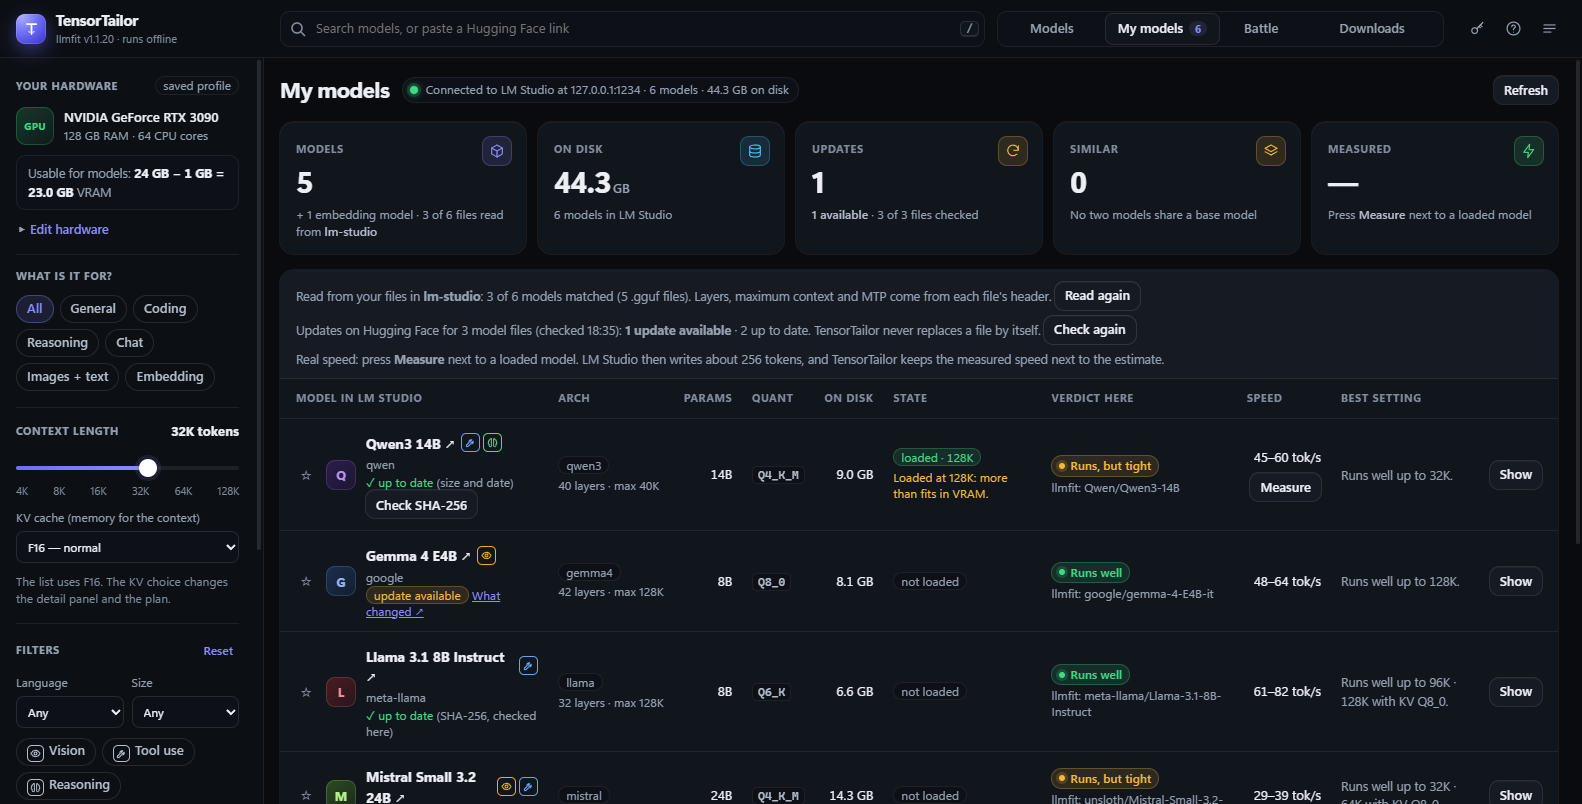
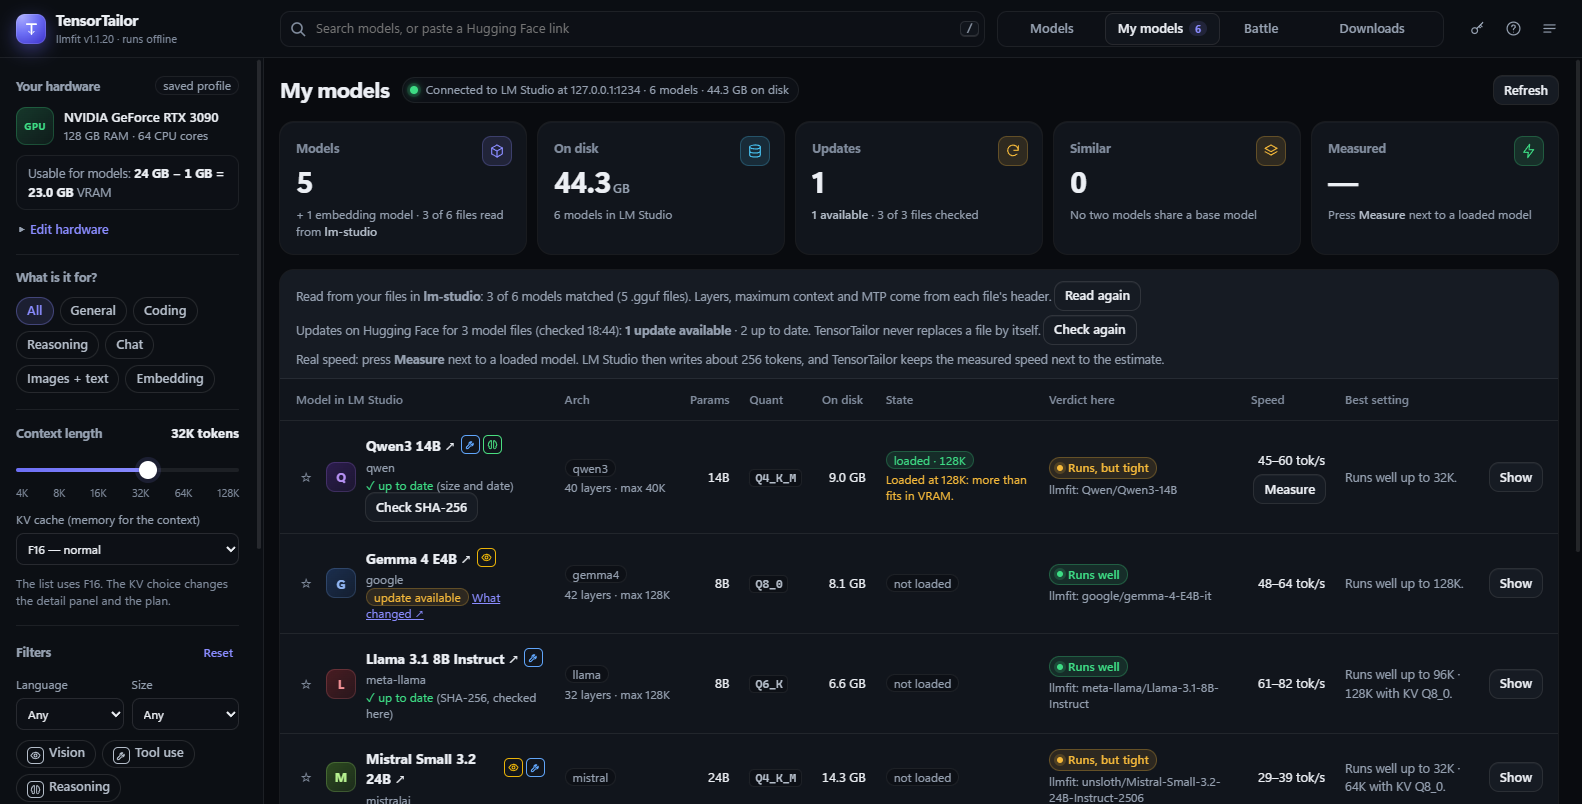
Implemented by Claude Opus 5.5: style(web): calmer page: no ALL-CAPS labels, one answer at the top, fewer dots
GUI review G7, G9, G11:
- G7: the small uppercase labels (sidebar headings, table and list headers, stat and KPI
  labels, Top picks, Battle places, menu groups, command labels) are normal case now,
  12-12.5 px and a little bolder; the 11 uppercase rules were changed in place.
- G9: the Overview's quiet line says only how it runs (GPU, estimated or measured);
  llmfit's own level (Perfect, Good, Marginal) is the first line of "Why this result",
  so the verdict at the top is the one answer.
- G11: the detail header keeps two key facts (parameters, maximum context); license
  (gated or not), release date and downloads moved to the top of the Overview tab.
New test test-calm (24 tests), Help updated, README pictures retaken.

diff --git a/web/app.html b/web/app.html
@@ -233,7 +233,7 @@ input[type="range"] { width: 100%; accent-color: var(--accent); }
 .sug .m { display: flex; align-items: center; gap: 6px; flex-wrap: wrap; }
 .suggest[hidden] { display: none; }
 .sug { border-radius: var(--radius); border: 1px solid var(--line); background: var(--panel); box-shadow: var(--shadow); display: flex; flex-direction: column; min-width: 0; }
-.sug .k { text-transform: uppercase; font-weight: 700; }
+.sug .k { font-weight: 650; }
 .sug .n { font-weight: 650; white-space: nowrap; overflow: hidden; text-overflow: ellipsis; }
 .sug .m { font-size: 12.5px; color: var(--muted); }
 .sug .acts { display: flex; gap: 6px; margin-top: 6px; }
@@ -250,7 +250,7 @@ input[type="range"] { width: 100%; accent-color: var(--accent); }
 .sort { display: flex; align-items: center; font-size: 13px; }
 .table { flex: 1; min-height: 0; display: flex; flex-direction: column; background: var(--panel); border: 1px solid var(--line); border-radius: var(--radius); box-shadow: var(--shadow); overflow: hidden; }
 .cols, .row { display: grid; align-items: center; }
-.cols { text-transform: uppercase; color: var(--faint); }
+.cols { color: var(--faint); }
 .rows { overflow: auto; flex: 1; position: relative; }
 .row { height: 60px; cursor: pointer; overflow: hidden; }
 
@@ -354,7 +354,7 @@ input[type="range"] { width: 100%; accent-color: var(--accent); }
 .tabs button[aria-selected="true"] { color: var(--text); }
 .stats { display: grid; }
 .stat { min-width: 0; }
-.stat .k { color: var(--faint); text-transform: uppercase; }
+.stat .k { color: var(--faint); }
 .stat .v { font-size: 16px; font-weight: 700; font-variant-numeric: tabular-nums; white-space: nowrap; overflow: hidden; text-overflow: ellipsis; }
 .stat .v small { font-size: 11px; font-weight: 400; }
 .verdict-big { display: flex; align-items: center; flex-wrap: wrap; }
@@ -368,7 +368,7 @@ input[type="range"] { width: 100%; accent-color: var(--accent); }
 .typing { margin-top: 10px; min-height: 92px; padding: 10px 12px; border-radius: 9px; border: 1px solid var(--line); background: var(--panel-2); font-size: 13px; line-height: 1.55; white-space: pre-wrap; }
 .typing .cur { display: inline-block; width: 7px; height: 14px; background: var(--accent); vertical-align: -2px; margin-left: 1px; }
 .ladder, .ftable, .mtable, .ptable { width: 100%; border-collapse: collapse; font-size: 13px; font-variant-numeric: tabular-nums; }
-.ladder th, .ftable th, .mtable th, .ptable th { text-align: left; font-size: 11px; color: var(--faint); font-weight: 600; text-transform: uppercase; letter-spacing: .04em; padding: 0 6px 6px; }
+.ladder th, .ftable th, .mtable th, .ptable th { text-align: left; color: var(--faint); padding: 0 6px 6px; }
 .ladder td, .ftable td, .mtable td, .ptable td { padding: 6px; border-top: 1px solid var(--line); vertical-align: middle; }
 
 .notes { margin: 0; font-size: 13px; display: grid; }
@@ -439,7 +439,6 @@ pre.snippet { margin: 0; padding: 10px; border-radius: 9px; background: var(--pa
 /* A verdict tile that is switched off stays readable: dashed and quiet, with "hidden". */
 .tile[aria-pressed="false"] { opacity: 1; background: transparent; border-style: dashed; }
 
-.tile .off { font-size: 11px; color: var(--muted); font-weight: 600; text-transform: uppercase; letter-spacing: .04em; }
 /* A clear focus ring on the search box and the number fields (keyboard use). */
 .search:focus-within, .unit-input:focus-within { outline-offset: 2px; }
 /* "Load in LM Studio" at the top of the Run card. */
@@ -559,9 +558,9 @@ select, .unit-input, .dlg-body input[type="password"], .dlg-body textarea { bord
 .search:focus-within, .unit-input:focus-within { outline: 0; box-shadow: inset 0 0 0 1px var(--accent), 0 0 0 4px var(--accent-soft); background: var(--sunken); }
 kbd { border: 0; box-shadow: inset 0 0 0 1px var(--line-2), 0 1px 0 var(--line-2); background: var(--panel); }
 /* Tables: quiet uppercase headers and hairlines. */
-.ladder th, .ftable th, .mtable th, .ptable th, .cmp-table th { font-size: 10.5px; font-weight: 700; letter-spacing: .08em; color: var(--faint); }
+.ladder th, .ftable th, .mtable th, .ptable th, .cmp-table th { font-size: 12px; font-weight: 600; color: var(--faint); }
 .ladder td, .ftable td, .mtable td, .ptable td { border-top-color: var(--line); }
-.cols { font-size: 10.5px; font-weight: 700; letter-spacing: .08em; background: transparent; }
+.cols { font-size: 12px; font-weight: 600; background: transparent; }
 .ladder tr.pick td, .ftable tr.pick td { background: var(--accent-soft); }
 .ladder tr.pick td:first-child, .ftable tr.pick td:first-child { box-shadow: inset 2px 0 0 var(--accent); }
 /* Boxes: tinted with a ring. */
@@ -614,7 +613,7 @@ header.top { position: relative; z-index: 6; height: 58px; padding: 0 16px; grid
 .side > .card { background: transparent; box-shadow: none; border-radius: 0; padding: 14px 0 16px; border-bottom: 1px solid var(--line); }
 .side > .card:last-child { border-bottom: 0; }
 .side .card-head { margin-bottom: 12px; }
-.side .card-head h2, .side .fold-head h2 { font: 700 10.5px var(--font); letter-spacing: .08em; text-transform: uppercase; color: var(--muted); }
+.side .card-head h2, .side .fold-head h2 { font: 650 12.5px var(--font); color: var(--muted); }
 .side .ctx-value { font-family: var(--display); font-weight: 700; font-size: 13px; color: var(--text); }
 .side .btn.ghost.small { height: 24px; padding: 0 6px; color: var(--accent); font-size: 12px; }
 .hw-gpu { background: transparent; box-shadow: none; padding: 0; }
@@ -649,7 +648,7 @@ input[type="range"]:focus-visible::-webkit-slider-thumb { box-shadow: 0 0 0 4px 
 .center { gap: 10px; }
 /* Top picks: a slim strip of three pills (closed) or three cards (open). */
 .suggest.strip { display: flex; align-items: center; gap: 8px; margin: 0; min-width: 0; }
-.pk-lbl { display: inline-flex; align-items: center; gap: 6px; font: 700 10.5px var(--font); letter-spacing: .08em; text-transform: uppercase; color: var(--accent); white-space: nowrap; margin-right: 2px; }
+.pk-lbl { display: inline-flex; align-items: center; gap: 6px; font: 650 12px var(--font); color: var(--accent); white-space: nowrap; margin-right: 2px; }
 .pk-lbl svg.ic, .sort svg.ic { width: 14px; height: 14px; fill: none; stroke: currentColor; stroke-width: 1.7; stroke-linecap: round; stroke-linejoin: round; }
 .pk { display: inline-flex; align-items: center; gap: 7px; height: 30px; padding: 0 12px 0 10px; border: 0; border-radius: 99px; background: var(--panel); box-shadow: var(--elev); font-size: 12px; min-width: 0; flex: 0 1 auto; color: var(--text); transition: box-shadow .15s; }
 .pk:hover { box-shadow: 0 0 0 1px var(--accent-ring); }
@@ -660,7 +659,7 @@ input[type="range"]:focus-visible::-webkit-slider-thumb { box-shadow: 0 0 0 4px 
 .suggest:not(.strip) { margin-bottom: 0; }
 .sug { padding: 14px 16px; gap: 8px; }
 .sug .who { display: flex; align-items: center; gap: 10px; min-width: 0; }
-.sug .k { color: var(--faint); font-size: 10.5px; letter-spacing: .08em; }
+.sug .k { color: var(--faint); font-size: 12px; }
 /* One toolbar: verdict segments at the left, sort and icon buttons at the right. */
 .list-head { margin: 0; }
 .tiles { display: inline-flex; grid-template-columns: none; gap: 2px; padding: 3px; margin: 0; border-radius: 10px; background: var(--sunken); box-shadow: inset 0 0 0 1px var(--line); }
@@ -764,7 +763,7 @@ input[type="range"]:focus-visible::-webkit-slider-thumb { box-shadow: 0 0 0 4px 
 .stats { gap: 0; border-radius: 12px; background: var(--sunken); box-shadow: inset 0 0 0 1px var(--line); }
 .stat { background: transparent; box-shadow: none; border-radius: 0; padding: 11px 13px; }
 .stat + .stat { border-left: 1px solid var(--line); }
-.stat .k { font-size: 10.5px; font-weight: 700; letter-spacing: .08em; }
+.stat .k { font-size: 12px; font-weight: 600; }
 .stat .v { font: 700 19px/1.2 var(--display); letter-spacing: -.02em; margin-top: 3px; }
 .stat .v small { font: 500 11.5px var(--font); color: var(--muted); letter-spacing: 0; }
 .math { font: 13px var(--font); background: transparent; box-shadow: none; padding: 12px 0 0; color: var(--muted); }
@@ -779,7 +778,7 @@ input[type="range"]:focus-visible::-webkit-slider-thumb { box-shadow: 0 0 0 4px 
 .lmrow { border-top-color: var(--line); padding: 10px 0; }
 .lmhead b { font-weight: 650; }
 .lmload.top { background: var(--accent-soft); box-shadow: inset 0 0 0 1px var(--accent-ring); border-radius: 12px; }
-.cmd .who { font-size: 10.5px; font-weight: 700; letter-spacing: .08em; text-transform: uppercase; }
+.cmd .who { font-size: 12px; font-weight: 650; }
 .ftable .fname { font-size: 12px; }
 .detail .card-head h2 { font-size: 14.5px; }
 /* The sticky header sits right at the top edge (no gap above it while you scroll). */
@@ -798,7 +797,7 @@ input[type="range"]:focus-visible::-webkit-slider-thumb { box-shadow: 0 0 0 4px 
 .view-head .status-line .dot.ok { box-shadow: 0 0 0 3px var(--perfect-soft), 0 0 8px var(--perfect); }
 .kpis { display: grid; grid-template-columns: repeat(5, minmax(0, 1fr)); gap: 12px; }
 .kpi { position: relative; overflow: hidden; padding: 16px 16px 14px; }
-.kpi-l { font: 700 10.5px var(--font); letter-spacing: .08em; text-transform: uppercase; color: var(--faint); }
+.kpi-l { font: 650 12.5px var(--font); color: var(--faint); }
 .kpi-ic { position: absolute; right: 14px; top: 14px; width: 30px; height: 30px; border-radius: 9px; display: grid; place-items: center; color: var(--c); background: color-mix(in srgb, var(--c) 13%, transparent); box-shadow: inset 0 0 0 1px color-mix(in srgb, var(--c) 26%, transparent); }
 .kpi-ic svg { width: 16px; height: 16px; fill: none; stroke: currentColor; stroke-width: 1.7; stroke-linecap: round; stroke-linejoin: round; }
 .kpi b { display: block; margin-top: 8px; font: 700 30px/1 var(--display); letter-spacing: -.03em; }
@@ -850,7 +849,7 @@ input[type="range"]:focus-visible::-webkit-slider-thumb { box-shadow: 0 0 0 4px 
 .fighter { padding: 20px; }
 .fighter.win { box-shadow: 0 0 0 1px color-mix(in srgb, var(--perfect) 45%, transparent), 0 18px 50px color-mix(in srgb, var(--perfect) 14%, transparent); padding-top: 28px; }
 .crown { top: -11px; left: 50%; right: auto; transform: translateX(-50%); height: 22px; padding: 0 10px; display: inline-flex; align-items: center; font-size: 10.5px; font-weight: 800; letter-spacing: .1em; color: #04130a; background: linear-gradient(180deg, #6ef0a6, var(--perfect)); box-shadow: 0 4px 14px color-mix(in srgb, var(--perfect) 40%, transparent); }
-.place { font: 700 10.5px var(--font); letter-spacing: .1em; text-transform: uppercase; color: var(--faint); }
+.place { font: 650 12px var(--font); color: var(--faint); }
 .fhead { display: flex; align-items: center; gap: 12px; margin-top: 8px; }
 .fname-b { min-width: 0; }
 .fhead h3 { margin: 0; font: 650 16px var(--display); white-space: nowrap; overflow: hidden; text-overflow: ellipsis; }
@@ -884,7 +883,7 @@ input[type="range"]:focus-visible::-webkit-slider-thumb { box-shadow: 0 0 0 4px 
 .menu .btn { height: 38px; font-weight: 500; color: var(--text-2); gap: 10px; }
 .menu .btn:hover { color: var(--text); }
 .menu .btn svg.ic { width: 16px; height: 16px; color: var(--faint); }
-.menu-lbl { padding: 8px 10px 4px; font: 700 10.5px var(--font); letter-spacing: .08em; text-transform: uppercase; color: var(--faint); }
+.menu-lbl { padding: 8px 10px 4px; font: 650 12px var(--font); color: var(--faint); }
 .menu-sep { height: 1px; background: var(--line); margin: 6px 4px; }
 .mi-r { margin-left: auto; font-size: 11px; color: var(--faint); font-weight: 400; }
 /* Help: a table of contents with a search box at the left. */
@@ -950,7 +949,7 @@ details.by-hand .hint { margin-top: 6px; }
 .tile .n, .tile .l { white-space: nowrap; }
 .tile, .tile[aria-pressed="false"] { padding: 0 9px; gap: 6px; }
 .tile[aria-pressed="false"] .l { text-decoration: none; color: var(--faint); }
-.tile .off { display: inline; font-size: 12px; font-weight: 500; text-transform: none; letter-spacing: 0; color: var(--faint); }
+.tile .off { display: inline; font-size: 12px; font-weight: 500; color: var(--faint); }
 .list-head { flex-wrap: wrap; row-gap: 8px; }
 .list-tools { margin-left: auto; }
 .list-tools select { max-width: 150px; }
@@ -967,12 +966,14 @@ details.by-hand .hint { margin-top: 6px; }
 }
 /* The detail panel is a container too: when it is narrow, the labels above its numbers may wrap instead of "CONTE…". */
 .detail { container: detail / inline-size; }
-@container detail (max-width: 440px) { .stat .k { white-space: normal; overflow: visible; letter-spacing: .03em; } }
+@container detail (max-width: 440px) { .stat .k { white-space: normal; overflow: visible; } }
 /* My models: a name breaks between words only; a narrow view leaves out the Arch column (MTP also shows under
    State); the table scrolls sideways instead of cutting off Show. */
 .view-pane { container: view / inline-size; }
 .mtable .d-id { overflow-wrap: normal; word-break: normal; }
 .mine-card { overflow-x: auto; }
+/* Overview: license, release date and downloads (moved out of the detail header). */
+.ov-about { font-size: 12.5px; color: var(--muted); margin: -2px 0 10px; }
 /* Numbered steps in an empty state (My models without LM Studio). */
 .es-steps { text-align: left; margin: 0 auto 18px; padding-left: 22px; max-width: 400px; font-size: 13.5px; line-height: 1.8; color: var(--text-2); }
 /* The Measure button on its own line under the speed (it touched "32–43 tok/s"). */
@@ -1283,9 +1284,9 @@ details.by-hand .hint { margin-top: 6px; }
 
     <h3>The detail panel (right)</h3>
     <dl>
-      <dt>Top of the panel</dt><dd>The answer first: the verdict, the best file for this PC, the file you have in LM Studio (if any), and one action: <b>Load in LM Studio…</b> or <b>Choose a file to download</b>. The star button (☆) at the right stars the model as a favorite. Below the name: the labels, and one line with the facts (parameters, maximum context, license with "(gated)" or "(not gated)", release date, downloads). This part stays in view while you scroll; it shrinks to the name, the answer and the tabs.</dd>
+      <dt>Top of the panel</dt><dd>The answer first: the verdict, the best file for this PC, the file you have in LM Studio (if any), and one action: <b>Load in LM Studio…</b> or <b>Choose a file to download</b>. The star button (☆) at the right stars the model as a favorite. Below the name: the labels, and the two key facts (parameters and maximum context). The license (with "(gated)" or "(not gated)"), release date and downloads are at the top of the Overview tab. This part stays in view while you scroll; it shrinks to the name, the answer and the tabs.</dd>
       <dt>Panel width</dt><dd>Drag the thin line at the left edge of the detail panel to make it wider or narrower (or click it and use the arrow keys). Double-click the line for the normal width (a little narrower on screens below 1500 px). The width is remembered in this browser.</dd>
-      <dt>Overview</dt><dd>One quiet line (runs on, llmfit's own level, estimated or measured), then speed, memory, best file and context, and "Which file fits?" for every quantization (the verdict itself is at the top of the panel). When llmfit's planner (more safety room) rates the best file lower than the list, a yellow note says so and names the best file that runs well. <b>Preview speed</b> shows how fast text appears at that speed. "Why this result" lists llmfit's reasons.</dd>
+      <dt>Overview</dt><dd>One quiet line (runs on, estimated or measured), then speed, memory, best file and context, and "Which file fits?" for every quantization (the verdict itself is at the top of the panel). When llmfit's planner (more safety room) rates the best file lower than the list, a yellow note says so and names the best file that runs well. <b>Preview speed</b> shows how fast text appears at that speed. "Why this result" starts with llmfit's own level (Perfect, Good, Marginal) and lists llmfit's reasons.</dd>
       <dt>KV cache from a real file</dt><dd>llmfit counts the memory for the context (the KV cache) exactly only when it knows a model's layers and head size. For about 4,900 models in its list it does not, and uses a rough rule. When TensorTailor reads a real GGUF file of such a model (your file in My models, or a file in the Files or Run tab), it fills in the missing values from the file's header. It never changes a value llmfit has, and skips a file that does not match. "Why this result" then says "KV cache counted from the GGUF header of …", and My models lists your models it did this for. Remembered in this browser.</dd>
       <dt>Files</dt><dd>The real files on Hugging Face, one line per file (point at a long name for the full name; the copy button copies the download link), the file "best for this PC" first, and the verdict per file. <b>Download</b> saves a file into your folder and checks its SHA-256 at the end. <b>Show SHA-256 of each file</b> (under the table) shows the codes; click one to copy it.</dd>
       <dt>Run</dt><dd>"LM Studio load settings for this PC": what to set in LM Studio's load dialog for this model (context length, GPU offload, flash attention, K/V cache, speculative decoding, remember settings), with the reason; point at a <span class="q">?</span> for what each setting does. <b>Set it by hand in LM Studio</b> (folded) says where these settings are in LM Studio. <b>Load in LM Studio with these settings</b> (when the model is in LM Studio and its server is on) first shows what will be sent, then asks LM Studio to load it: context length, flash attention, KV cache on the GPU and MTP. LM Studio's API cannot set GPU offload and K/V cache quantization, so LM Studio keeps its own setting for those. A model that is loaded already is unloaded first; other loaded models stay, unless you tick the box to unload them.</dd>
@@ -2037,12 +2038,19 @@ function saferNote(r, d) {
   const alt = ok && ok[0] !== String(b.q).toUpperCase() ? `For a safe margin, choose <b>${esc(ok[0])}</b> (${gb(ok[1].size)}, runs well${ok[1].tps > 0 ? `, about ${fmtT(ok[1].tps)} tok/s` : ""}).` : "";
   return `<div class="warn-box safer">The list puts <b>${esc(b.q)}</b> at <b>${esc(PLAIN[b.plain].label.toLowerCase())}</b> on ${esc(b.mode)}. llmfit's planner keeps more safety room and says <b>${esc(PLAIN[mine.plain].label.toLowerCase())}</b> on ${esc(mine.mode)}. Both are estimates; the truth is in between. ${alt}</div>`;
 }
+// The facts that left the detail header: license (gated or not), release date, downloads.
+function aboutFacts(m) {
+  const g = gatedOf(m.id);
+  return [m.license && m.license !== "unknown" ? "License " + m.license + (g ? " (gated)" : g === false && m.gated ? " (not gated)" : "") : g ? "gated" : "",
+    m.added ? `released ${m.added}` : "", m.downloads ? `${m.downloads.toLocaleString("en")} downloads` : ""].filter(Boolean);
+}
 function tabOverview(r, d) {
-  const b = r.best, basis = d && d.detail ? d.detail.fit.estimate_basis : null;
+  const b = r.best, basis = d && d.detail ? d.detail.fit.estimate_basis : null, about = aboutFacts(r.m);
   const ladder = d && d.ladder;
   return `<section class="card">
     ${r.m.packed ? `<div class="warn-box" style="margin:0 0 10px"><b>Size uncertain.</b> ${esc(r.m.packed.text)}</div>` : ""}
-    <div class="ov-meta" title="Runs on, llmfit's own level, and whether the speed is estimated or measured"><span>${esc(b.mode)}</span><span>llmfit: ${esc(LLMFIT_LABEL[b.level])}</span><span class="${String(b.conf).startsWith("measured") ? "ok" : ""}">${esc(String(b.conf).replace("_", " "))}</span></div>
+    <div class="ov-meta" title="Runs on, and whether the speed is estimated or measured"><span>${esc(b.mode)}</span><span class="${String(b.conf).startsWith("measured") ? "ok" : ""}">${esc(String(b.conf).replace("_", " "))}</span></div>
+    ${about.length ? `<div class="ov-about">${about.map(esc).join(" · ")}</div>` : ""}
     <div class="stats">
       <div class="stat" title="Speed in tokens per second"><div class="k">Speed</div><div class="v">${speedRange(b)}${b.tps > 0 ? " <small>tok/s</small>" : ""}</div>${measLine(r)}</div>
       <div class="stat" title="${b.mode === "MoE offload" ? `Total: ${gb(b.inGpu)} in VRAM + ${gb(b.inRam)} of experts in system RAM` : "Model file + KV cache + engine"}"><div class="k">Memory</div><div class="v">${(b.mode === "MoE offload" ? b.inGpu + b.inRam : b.need).toFixed(1)} <small>GB</small></div></div>
@@ -2062,7 +2070,7 @@ function tabOverview(r, d) {
       return `<tr class="${x.quant === b.q ? "pick" : ""}"><td><span class="quant">${esc(x.quant)}</span></td><td class="r">${gb(x.plan.disk_size_gb)}</td><td>${md}</td><td>${verdict(plainOf(lv, md))}</td><td class="r">${t > 0 ? fmtT(t) : "—"}</td></tr>`;
     }).join("")}</tbody></table><p class="hint">llmfit's planner keeps extra room, so it can be stricter than the list: a file the list puts in VRAM may show "CPU+GPU" here.</p>`}
   </section>
-  <section class="card"><div class="card-head"><h2>Why this result</h2></div><ul class="notes">${notesFor(r, d).map((t) => `<li>${esc(t)}</li>`).join("")}</ul></section>`;
+  <section class="card"><div class="card-head"><h2>Why this result</h2></div><ul class="notes">${[`llmfit's own level for this file: ${LLMFIT_LABEL[b.level]} (the verdict at the top translates it for this PC).`].concat(notesFor(r, d)).map((t) => `<li>${esc(t)}</li>`).join("")}</ul></section>`;
 }
 
 /* ---------- Files tab: live from Hugging Face ---------- */
@@ -2527,7 +2535,8 @@ function renderDetail() {
   const body = { overview: () => tabOverview(r, d), files: () => tabFiles(r), run: () => tabRun(r), plan: () => tabPlan(r, d) }[state.tab]();
   // The answer first (verdict, file, one action); model facts as one quiet line; the header stays in view.
   const fav = state.watch.has(m.id), b = r.best;
-  const meta = [`${fmtParams(m.params)} parameters`, m.moe ? `MoE${m.active ? " · " + fmtParams(m.active) + " active" : ""}` : "", `max ${fmtCtx(m.ctx)} context`, m.license && m.license !== "unknown" ? m.license +(gatedOf(m.id) ? " (gated)" : gatedOf(m.id) === false && m.gated ? " (not gated)" : "") : gatedOf(m.id) ? "gated" : "", m.added ? `released ${m.added}` : "", m.downloads ? `${m.downloads.toLocaleString("en")} downloads` : ""].filter(Boolean);
+  // The header keeps two key facts (size and context); license, release date and downloads are on the Overview tab.
+  const meta = [`${fmtParams(m.params)} parameters`, m.moe ? `MoE${m.active ? " · " + fmtParams(m.active) + " active" : ""}` : "", `max ${fmtCtx(m.ctx)} context`].filter(Boolean);
   const lmsQ = lms && lms.quantization ? lms.quantization.toUpperCase() : "";
   const action = lms && state.lms.online && !/embed/i.test(lms.type) && b.plain !== "nofit"
     ? `<button class="btn primary small" data-headload="${esc(m.id)}" title="Opens the Run tab and shows what will be sent to LM Studio first">Load in LM Studio…</button>`
